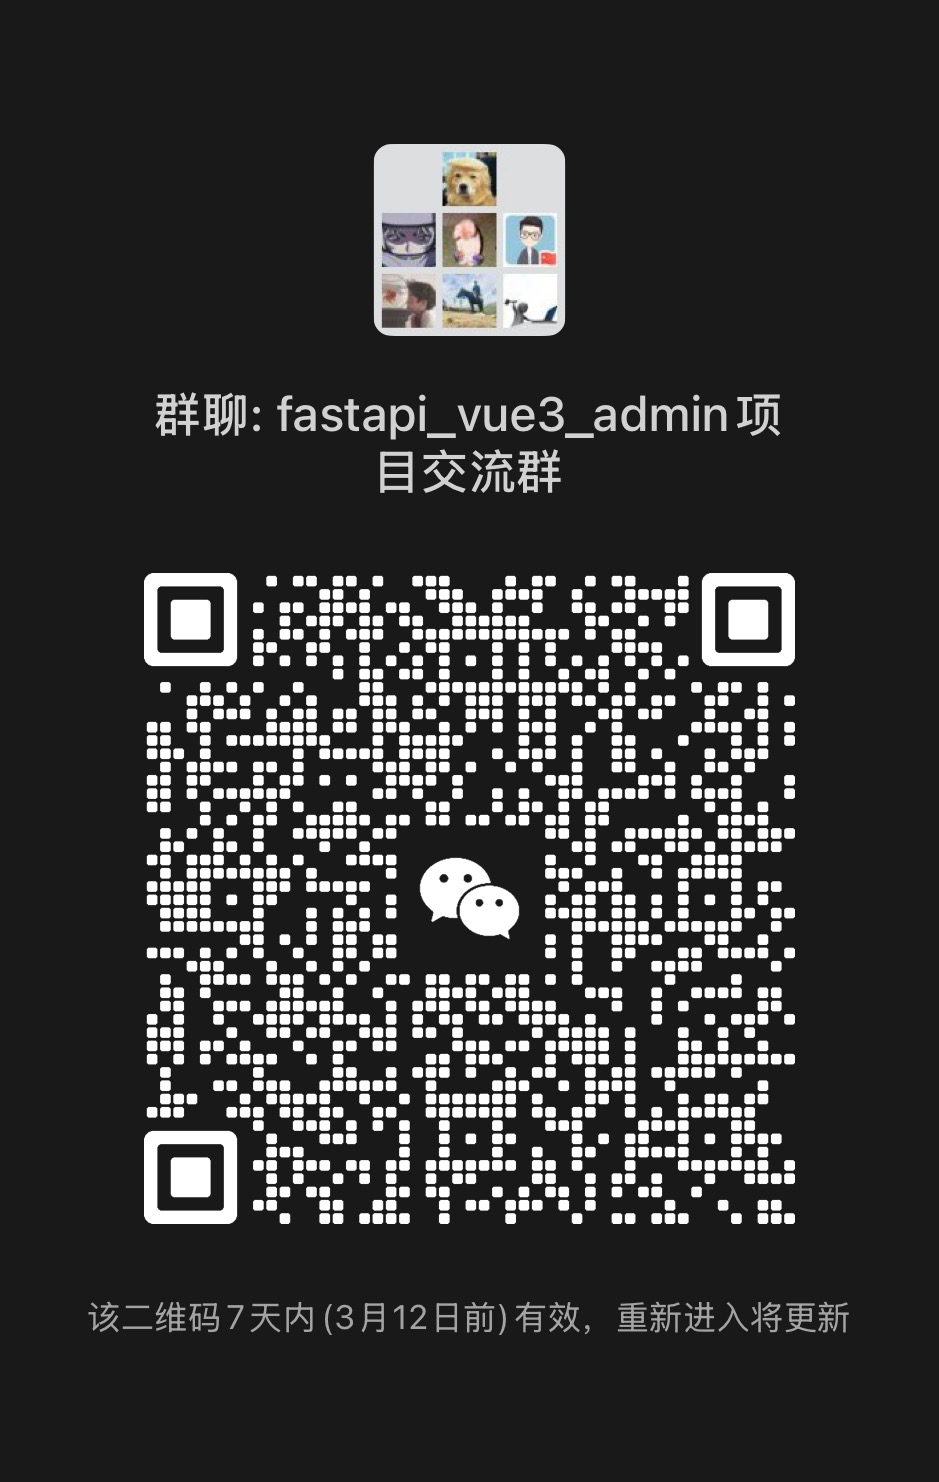
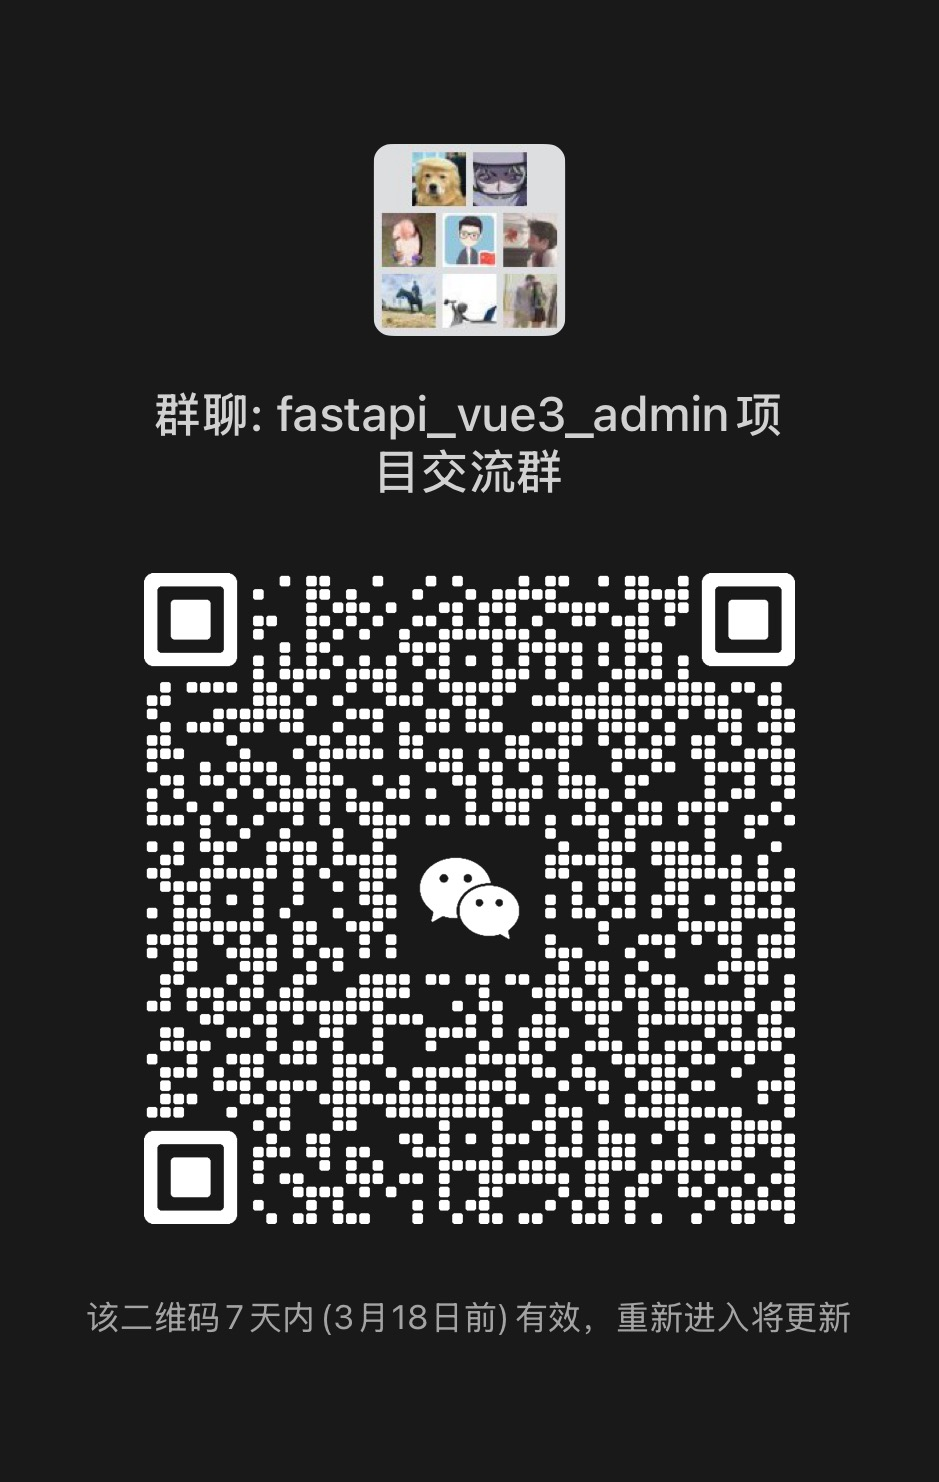
docs: 更新群二维码图片

diff --git a/frontend/public/site/index.html b/frontend/public/site/index.html
@@ -629,30 +629,6 @@
   
 </li>
       
-        <li class="md-nav__item">
-  <a href="#_30" class="md-nav__link">
-    <span class="md-ellipsis">
-      🎨 微信群
-    </span>
-  </a>
-  
-    <nav class="md-nav" aria-label="🎨 微信群">
-      <ul class="md-nav__list">
-        
-          <li class="md-nav__item">
-  <a href="#_31" class="md-nav__link">
-    <span class="md-ellipsis">
-      群二维码
-    </span>
-  </a>
-  
-</li>
-        
-      </ul>
-    </nav>
-  
-</li>
-      
     </ul>
   
 </nav>
@@ -1184,30 +1160,6 @@
   
 </li>
       
-        <li class="md-nav__item">
-  <a href="#_30" class="md-nav__link">
-    <span class="md-ellipsis">
-      🎨 微信群
-    </span>
-  </a>
-  
-    <nav class="md-nav" aria-label="🎨 微信群">
-      <ul class="md-nav__list">
-        
-          <li class="md-nav__item">
-  <a href="#_31" class="md-nav__link">
-    <span class="md-ellipsis">
-      群二维码
-    </span>
-  </a>
-  
-</li>
-        
-      </ul>
-    </nav>
-  
-</li>
-      
     </ul>
   
 </nav>
@@ -1510,16 +1462,6 @@
 <li><a href="https://gitee.com/mizhexiaoxiao/vue-fastapi-admin">Vue-FastAPI-Admin 项目</a></li>
 <li><a href="https://gitee.com/insistence2022/RuoYi-Vue3-FastAPI">RuoYi-Vue3-FastAPI 项目</a></li>
 </ul>
-<h2 id="_30">🎨 微信群</h2>
-<p>在下方为群二维码，可以用于技术交流，也可以一起讨论在项目使用过程中遇到的各种问题。真心希望大家一起优化该项目，积极讨论，让我们一起抱团取暖！</p>
-<h3 id="_31">群二维码</h3>
-<table>
-    <tr>
-        <td><img src="./resources/images/微信.jpg"/></td>
-        <td><img src="./resources/images/wechat.png"/></td>
-        <td><img src="./resources/images/wechatPay.jpg"/></td>
-    </tr>
-</table>
 
 
 

diff --git a/mkdocs/docs/index.md b/mkdocs/docs/index.md
@@ -258,17 +258,3 @@ git clone https://gitee.com/tao__tao/fastapi_vue3_admin.git
 - [Fastapi-Vue3-Admin 项目](https://gitee.com/senqi666/fastapi-vue-admin)
 - [Vue-FastAPI-Admin 项目](https://gitee.com/mizhexiaoxiao/vue-fastapi-admin)
 - [RuoYi-Vue3-FastAPI 项目](https://gitee.com/insistence2022/RuoYi-Vue3-FastAPI)
-
-## 🎨 微信群
-
-在下方为群二维码，可以用于技术交流，也可以一起讨论在项目使用过程中遇到的各种问题。真心希望大家一起优化该项目，积极讨论，让我们一起抱团取暖！
-
-### 群二维码
-
-<table>
-    <tr>
-        <td><img src="./resources/images/微信.jpg"/></td>
-        <td><img src="./resources/images/wechat.png"/></td>
-        <td><img src="./resources/images/wechatPay.jpg"/></td>
-    </tr>
-</table>
